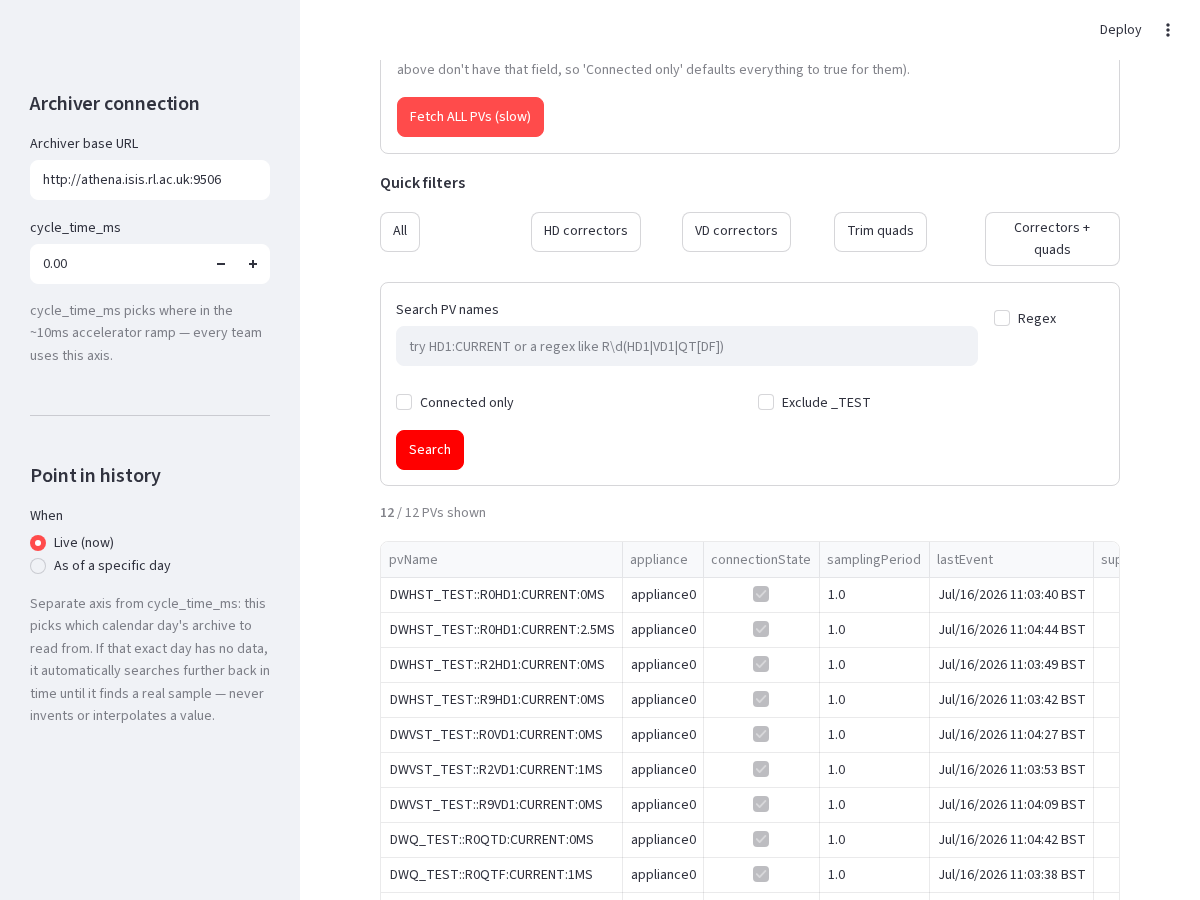
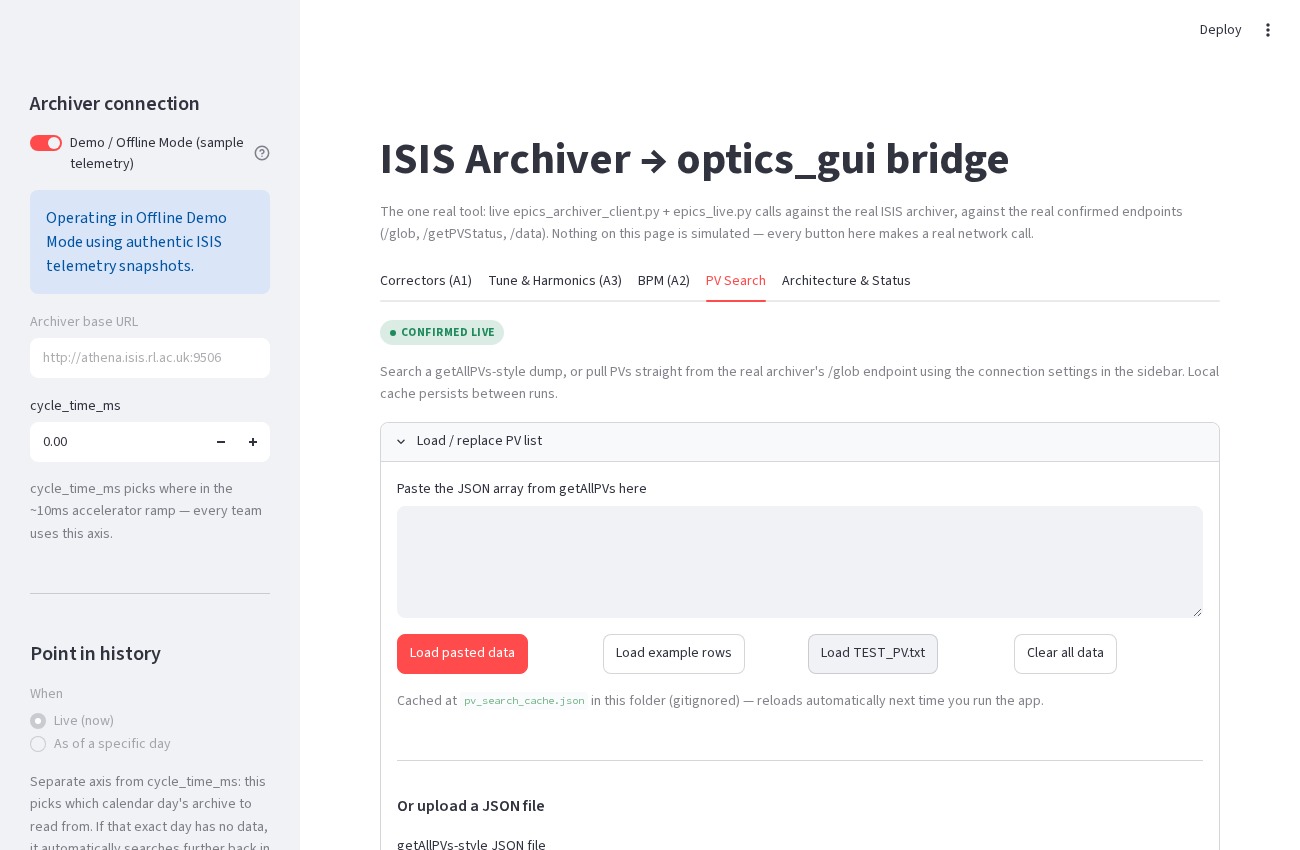
docs: link multi-tab live screenshots and restore pure app state

diff --git a/apps/archiver_live_app.py b/apps/archiver_live_app.py
@@ -90,16 +90,13 @@ st.caption(
 
 with st.sidebar:
     st.header("Archiver connection")
-    demo_mode = st.toggle("Demo / Offline Mode (sample telemetry)", value=True, help="Enables offline demonstration using authentic recorded ISIS telemetry without requiring connection to the internal STFC network.")
-    if demo_mode:
-        st.info("Operating in Offline Demo Mode using authentic ISIS telemetry snapshots.")
-    base_url = st.text_input("Archiver base URL", value=DEFAULT_BASE_URL, disabled=demo_mode)
+    base_url = st.text_input("Archiver base URL", value=DEFAULT_BASE_URL)
     cycle_time_ms = st.number_input("cycle_time_ms", value=0.0, step=0.5)
     st.caption("cycle_time_ms picks where in the ~10ms accelerator ramp -- every team uses this axis.")
 
     st.divider()
     st.header("Point in history")
-    history_mode = st.radio("When", ["Live (now)", "As of a specific day"], index=0, disabled=demo_mode)
+    history_mode = st.radio("When", ["Live (now)", "As of a specific day"], index=0)
     selected_day = None
     if history_mode == "As of a specific day":
         selected_day = st.date_input("Day", value=date.today())
@@ -110,51 +107,11 @@ with st.sidebar:
     )
 
 
-OFFLINE_TUNE_DEFAULTS = {
-    "H_Q": 4.3310,
-    "V_Q": 3.7310,
-    "D7SIN": 0.0012,
-    "D7COS": 0.0008,
-    "D8SIN": -0.0005,
-    "D8COS": 0.0007,
-    "F8SIN": 0.0015,
-    "F8COS": -0.0010,
-}
-
-OFFLINE_CORRECTOR_HD = {
-    0: 12.40, 1: 0.0, 2: 5.20, 3: -3.10, 4: 8.40,
-    5: 2.10, 6: 0.0, 7: -6.50, 8: 4.00, 9: 1.20
-}
-
-OFFLINE_CORRECTOR_VD = {
-    0: -9.00, 1: 0.0, 2: 4.10, 3: 7.30, 4: -2.00,
-    5: 5.50, 6: 0.0, 7: 3.20, 8: -8.10, 9: 0.50
-}
-
-
 def _end_of_day_utc(day):
     return datetime.combine(day, time(23, 59, 59, 999999), tzinfo=timezone.utc)
 
 
 def make_fetch_value():
-    if demo_mode:
-        def fetch_value(pv_name, as_of=None):
-            pv_upper = str(pv_name).upper()
-            for key, val in OFFLINE_TUNE_DEFAULTS.items():
-                if key in pv_upper:
-                    return val
-            match_hd = re.search(r"R(\d)HD1", pv_upper)
-            if match_hd:
-                sp = int(match_hd.group(1))
-                return OFFLINE_CORRECTOR_HD.get(sp, 0.0)
-            match_vd = re.search(r"R(\d)VD1", pv_upper)
-            if match_vd:
-                sp = int(match_vd.group(1))
-                return OFFLINE_CORRECTOR_VD.get(sp, 0.0)
-            return prospective_value(pv_name, -1.0, 1.0)
-
-        return fetch_value
-
     if history_mode == "As of a specific day" and selected_day is not None:
         pinned_as_of = _end_of_day_utc(selected_day)
 
@@ -172,12 +129,6 @@ def make_fetch_value():
 
 
 def make_list_available_times():
-    if demo_mode:
-        def list_available_times(device, family):
-            return [0.0, 1.0, 2.5, 3.5, 4.5, 5.0, 5.5, 6.5, 7.5, 8.5, 9.0, 10.0]
-
-        return list_available_times
-
     def list_available_times(device, family):
         return archiver_list_available_times(device, family, base_url=base_url)
 
@@ -185,12 +136,6 @@ def make_list_available_times():
 
 
 def make_list_available_times_dwtrim():
-    if demo_mode:
-        def list_available_times_dwtrim(signal):
-            return [0.0, 1.0, 2.5, 5.0, 7.5, 10.0]
-
-        return list_available_times_dwtrim
-
     def list_available_times_dwtrim(signal):
         return archiver_list_available_times_dwtrim(signal, base_url=base_url)
 
@@ -521,7 +466,7 @@ with tab_search:
 
     with st.expander("Load / replace PV list", expanded=not st.session_state.pv_records):
         pasted = st.text_area("Paste the JSON array from getAllPVs here", height=140)
-        col_a, col_b, col_c, col_d = st.columns(4)
+        col_a, col_b, col_c = st.columns(3)
         if col_a.button("Load pasted data", type="primary"):
             try:
                 records = json.loads(pasted)
@@ -542,17 +487,7 @@ with tab_search:
             reset_search_filters()
             save_search_cache(SEARCH_EXAMPLE_ROWS)
             st.rerun()
-        if col_c.button("Load TEST_PV.txt"):
-            pv_file = REPO_ROOT / "src" / "optics_gui" / "io" / "TEST_PV.txt"
-            if pv_file.exists():
-                records = json.loads(pv_file.read_text(encoding="utf-8"))
-                st.session_state.pv_records = records
-                st.session_state.search_data_version += 1
-                reset_search_filters()
-                save_search_cache(records)
-                st.success(f"Loaded {len(records):,} authentic PVs from TEST_PV.txt.")
-                st.rerun()
-        if col_d.button("Clear all data"):
+        if col_c.button("Clear all data"):
             st.session_state.pv_records = []
             st.session_state.search_data_version += 1
             reset_search_filters()

diff --git a/README.md b/README.md
@@ -69,13 +69,13 @@ harmonic_tunes = get_harmonic_tunes(cycle_time_ms=5.0)
   * **PV Search:** Performs instant regex filtering, magnet family parsing, and CSV exporting across thousands of PV records.
   * **BPM Geometry & Orbit:** Integrates MAD-X TWISS lattice execution across all 36 beam position monitors.
 
-| Architecture & Data Movement | Active PV Search & Magnet Parsing |
+| Tune & Harmonics Readouts (A3) | Corrector Current Ingestion (A1) |
 |:---:|:---:|
-| ![Archiver Data Pipeline](assets/screenshots/archiver_tab_status_active.png) | ![Archiver PV Search](assets/screenshots/archiver_tab_search_active.png) |
+| ![Tune & Harmonics](assets/screenshots/archiver_tab_tune_live.png) | ![Corrector Settings](assets/screenshots/archiver_tab_correctors_live.png) |
 
-| MAD-X TWISS 36-BPM Geometry Preview |
-|:---:|
-| ![BPM Geometry Table](assets/screenshots/archiver_tab_bpm_preview.png) |
+| Architecture & Data Pipeline Ledger | MAD-X TWISS 36-BPM Geometry (A2) |
+|:---:|:---:|
+| ![Archiver Data Pipeline](assets/screenshots/archiver_tab_status_active.png) | ![BPM Geometry Table](assets/screenshots/archiver_tab_bpm_preview.png) |
 
 ---
 
